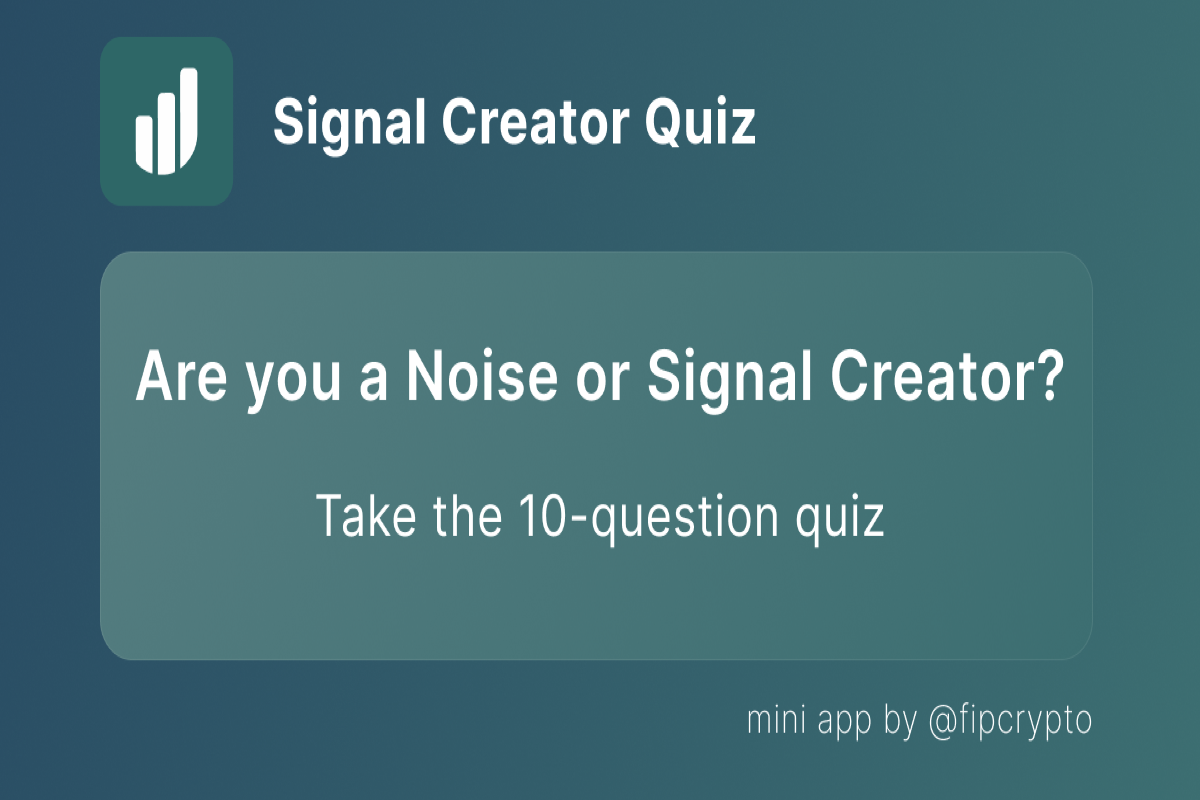
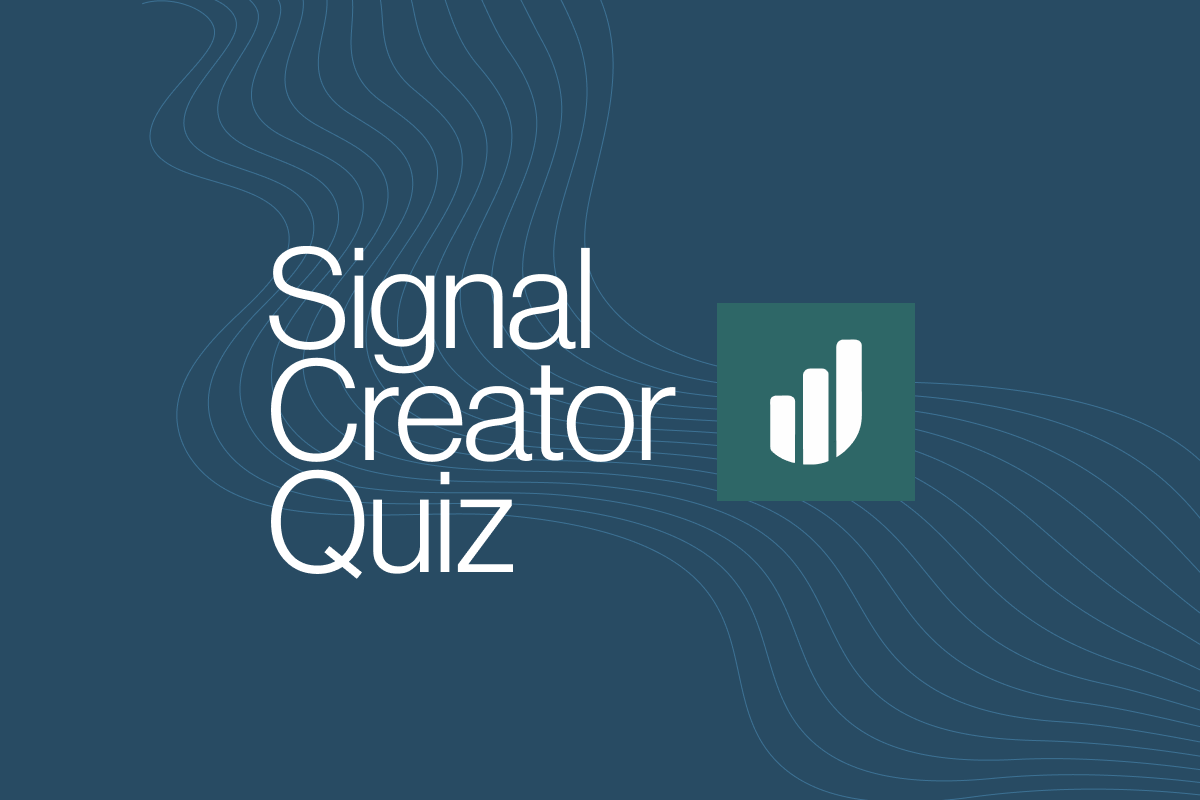
Update embed image to 3:2 aspect ratio preview image
- Add new embed-image.png (1200x800, 3:2 ratio)
- Update imageUrl in fc:miniapp meta tag
- Meets Farcaster embed requirements for social sharing

🤖 Generated with [Claude Code](https://claude.com/claude-code)

diff --git a/app/layout.tsx b/app/layout.tsx
@@ -36,7 +36,7 @@ export const metadata: Metadata = {
     // Mini app embed metadata for Farcaster and Base
     'fc:miniapp': JSON.stringify({
       version: '1',
-      imageUrl: 'https://signal-creator-quiz-v1-pdml.vercel.app/image.png',
+      imageUrl: 'https://signal-creator-quiz-v1-pdml.vercel.app/embed-image.png',
       button: {
         title: 'Take Quiz',
         action: {
